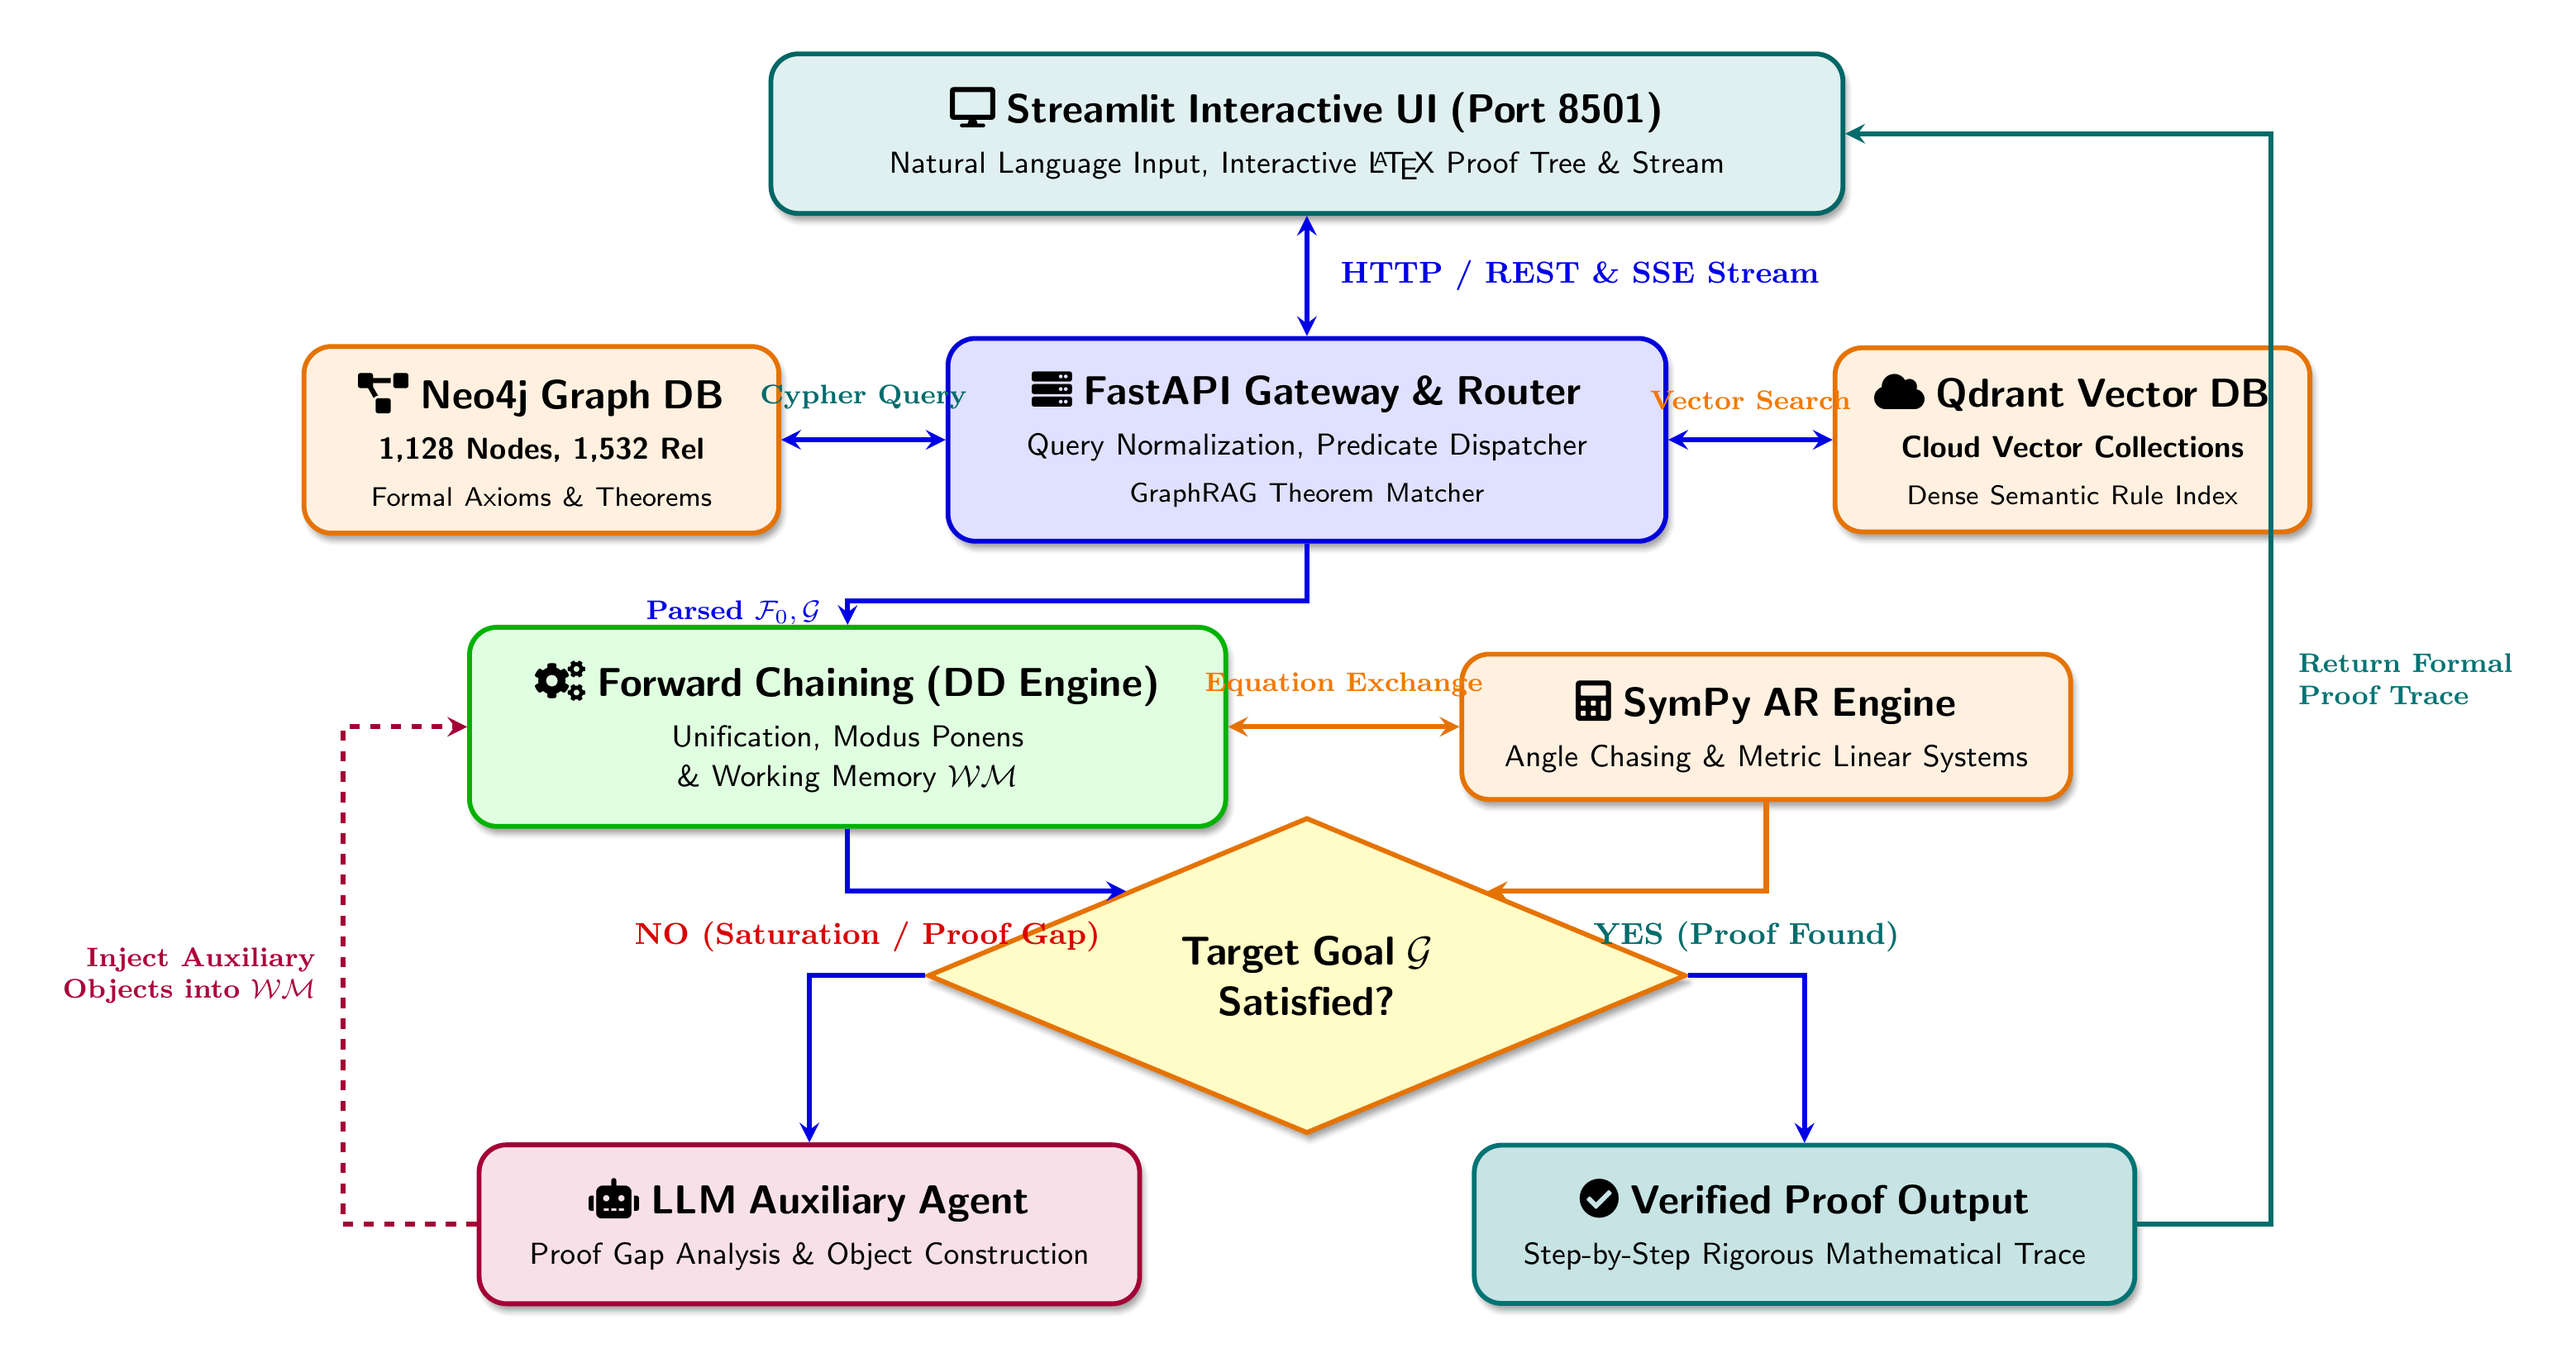
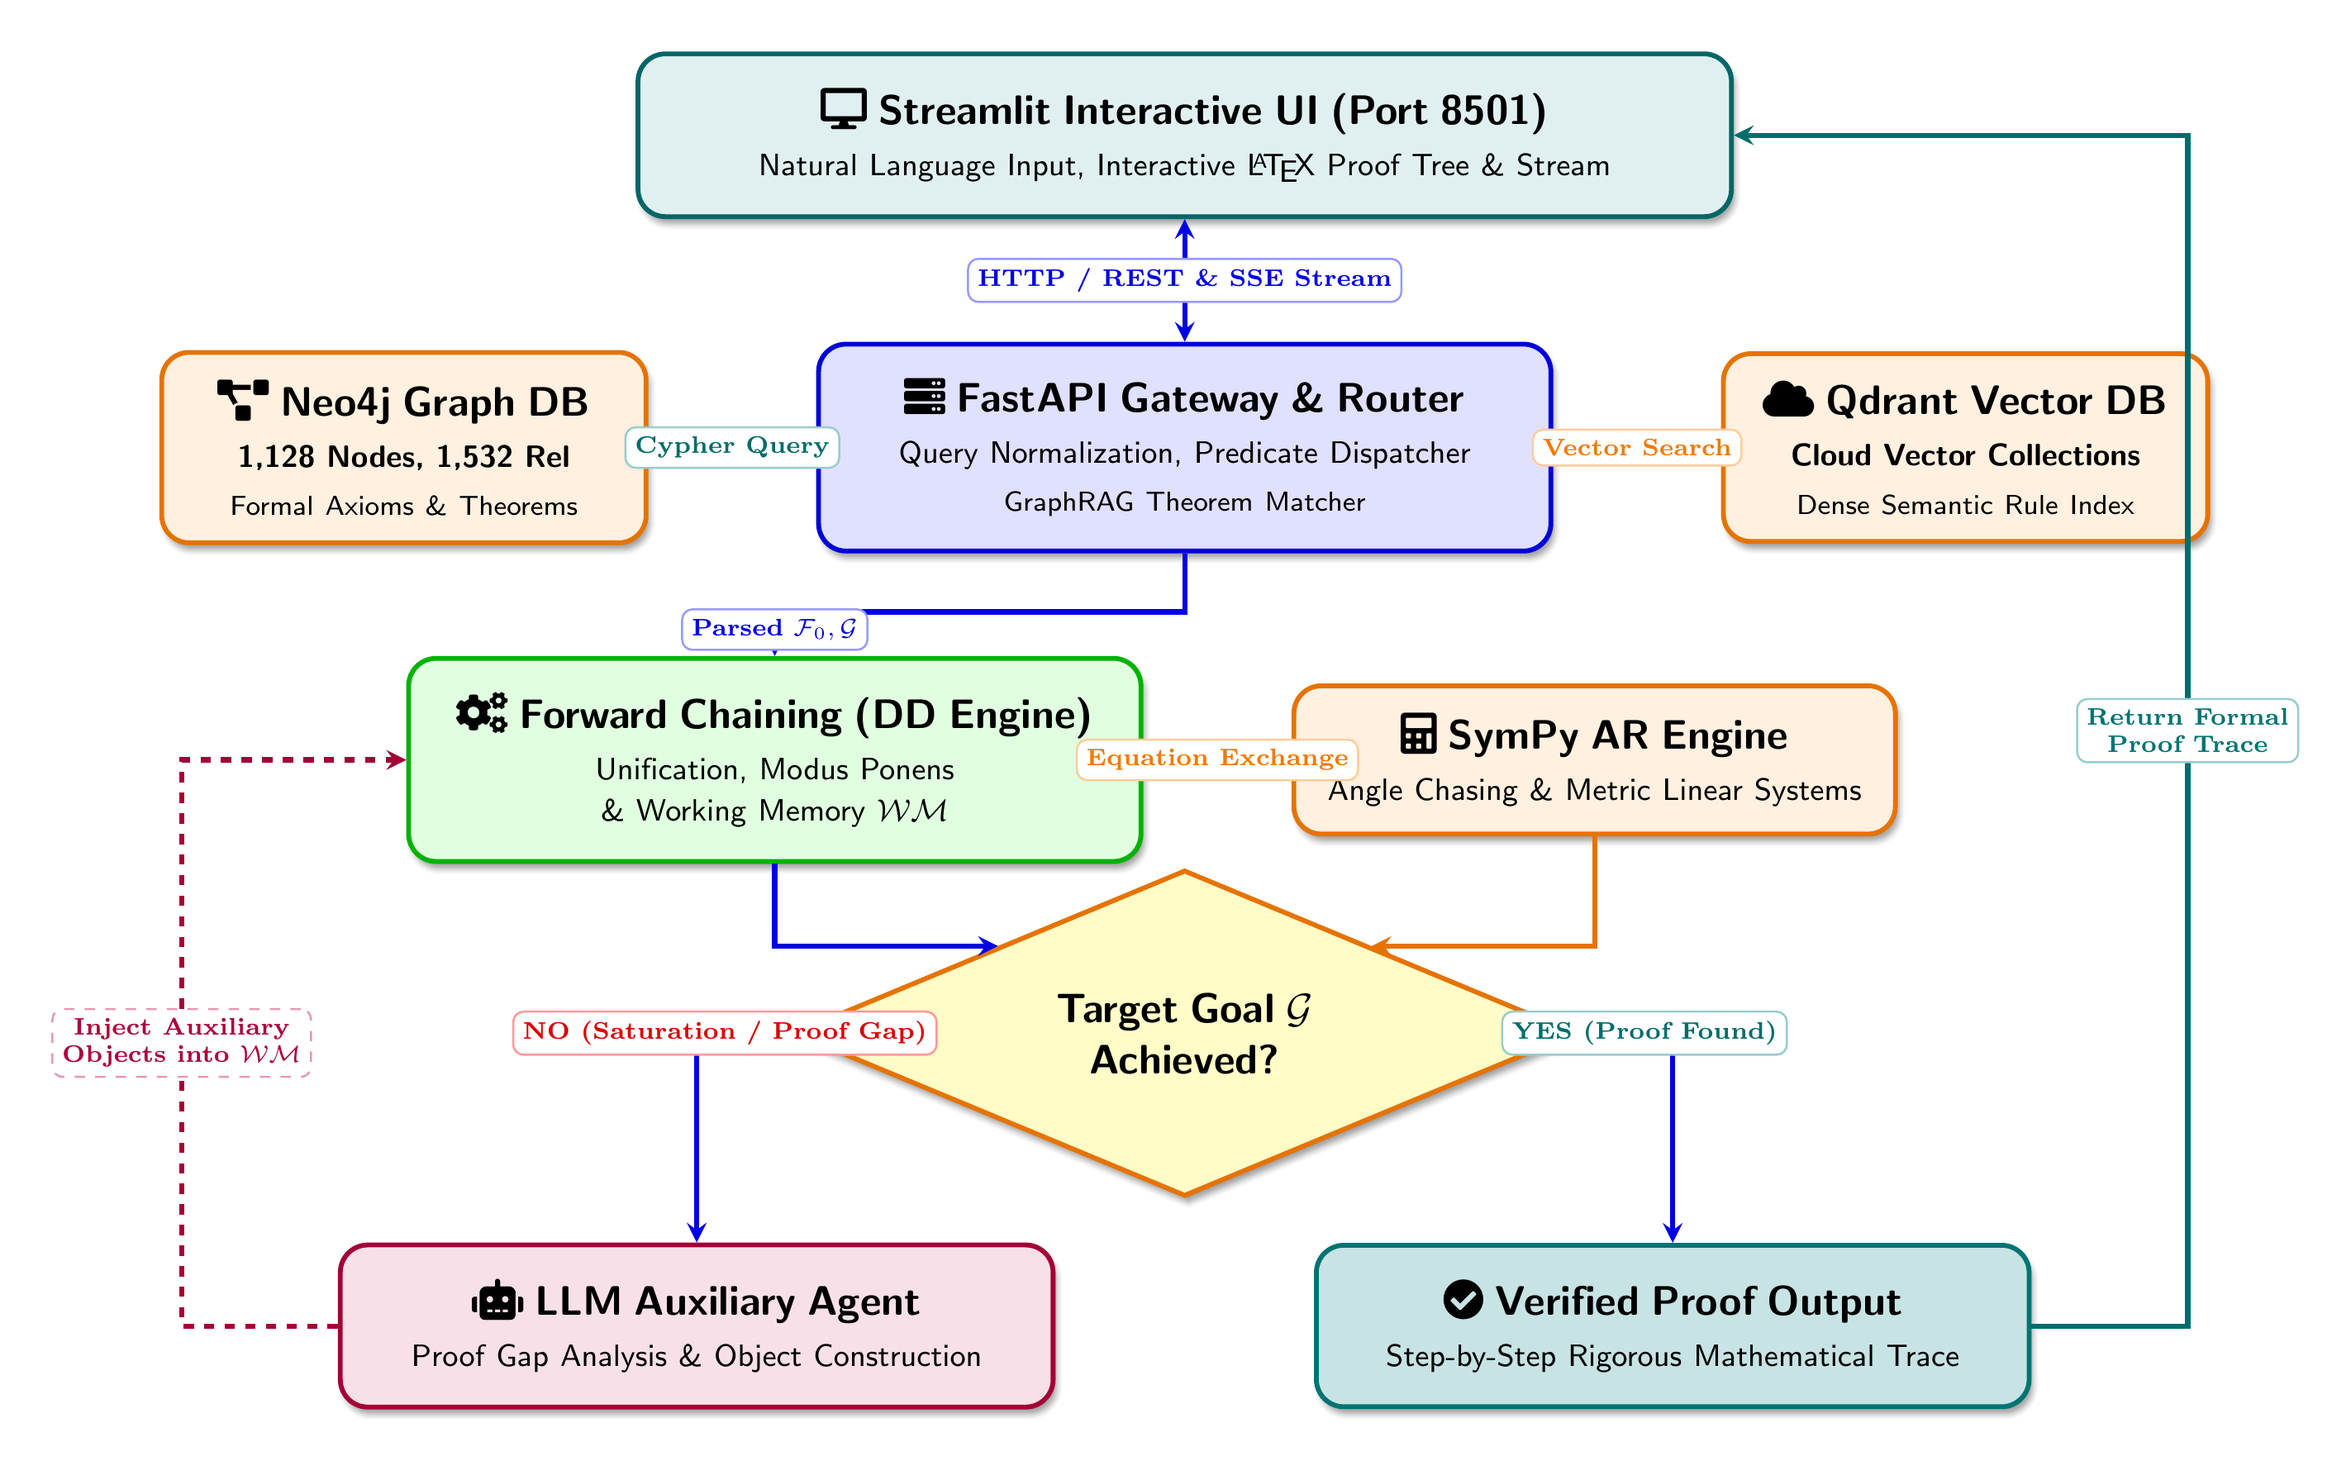
fix(diagram): eliminate all label collisions and bad hyphenations in system architecture diagram

diff --git a/latex_report/standalone_system_architecture.tex b/latex_report/standalone_system_architecture.tex
@@ -1,4 +1,4 @@
-\documentclass[border=15pt,varwidth=32cm]{standalone}
+\documentclass[border=15pt,varwidth=34cm]{standalone}
 \usepackage[utf8]{inputenc}
 \usepackage[T5]{fontenc}
 \usepackage[vietnamese,english]{babel}
@@ -11,7 +11,7 @@
 \shorthandoff{"}
 
 \begin{tikzpicture}[
-    scale=0.98,
+    scale=1.0,
     transform shape,
     font=\sffamily,
     ui_box/.style={
@@ -42,6 +42,9 @@
         rectangle, rounded corners=8pt, draw=teal!90!black, fill=teal!22,
         line width=1.4pt, text centered, inner sep=10pt, blur shadow={shadow blur steps=4, shadow xshift=1pt, shadow yshift=-2pt, opacity=20}
     },
+    badge/.style={
+        fill=white, draw=gray!40, line width=0.6pt, rounded corners=3pt, inner sep=2.8pt, font=\scriptsize\bfseries
+    },
     arrow/.style={
         thick, ->, >=stealth, color=blue!90!black, line width=1.5pt
     },
@@ -51,75 +54,84 @@
 ]
 
     % ================= LEVEL 1: CLIENT / UI =================
-    \node [ui_box, text width=10.5cm] (ui) at (0, 6.2) {
+    \node [ui_box, text width=10.5cm] (ui) at (0, 6.6) {
         \textbf{\large \faDesktop\ Streamlit Interactive UI (Port 8501)}\\[3pt]
         {\small Natural Language Input, Interactive \LaTeX\ Proof Tree \& Stream}
     };
 
     % ================= LEVEL 2: API & KNOWLEDGE STORAGE =================
-    \node [db_box, text width=4.4cm] (neo4j) at (-8.0, 3.0) {
+    \node [db_box, text width=4.4cm] (neo4j) at (-8.0, 3.4) {
         \textbf{\large \faProjectDiagram\ Neo4j Graph DB}\\[3pt]
         {\small \textbf{1,128 Nodes, 1,532 Rel}}\\[2pt]
         {\footnotesize Formal Axioms \& Theorems}
     };
 
-    \node [api_box, text width=6.8cm] (gateway) at (0, 3.0) {
+    \node [api_box, text width=6.8cm] (gateway) at (0, 3.4) {
         \textbf{\large \faServer\ FastAPI Gateway \& Router}\\[3pt]
         {\small Query Normalization, Predicate Dispatcher}\\[2pt]
         {\footnotesize GraphRAG Theorem Matcher}
     };
 
-    \node [db_box, text width=4.4cm] (qdrant) at (8.0, 3.0) {
+    \node [db_box, text width=4.4cm] (qdrant) at (8.0, 3.4) {
         \textbf{\large \faCloud\ Qdrant Vector DB}\\[3pt]
         {\small \textbf{Cloud Vector Collections}}\\[2pt]
         {\footnotesize Dense Semantic Rule Index}
     };
 
     % ================= LEVEL 3: REASONING ENGINES =================
-    \node [process_box, text width=7.2cm] (dd) at (-4.8, 0.0) {
+    \node [process_box, text width=6.8cm] (dd) at (-4.2, 0.2) {
         \textbf{\large \faCogs\ \mbox{Forward Chaining (DD Engine)}}\\[3pt]
         {\small Unification, Modus Ponens \& Working Memory $\mathcal{WM}$}
     };
 
-    \node [db_box, text width=5.8cm] (ar) at (4.8, 0.0) {
+    \node [db_box, text width=5.6cm] (ar) at (4.2, 0.2) {
         \textbf{\large \faCalculator\ SymPy AR Engine}\\[3pt]
         {\small Angle Chasing \& Metric Linear Systems}
     };
 
     % ================= LEVEL 4: DECISION POINT =================
-    \node [decision_box, text width=4.5cm] (check) at (0, -2.6) {
-        \textbf{\large Target Goal $\mathcal{G}$}\\[3pt]\textbf{\large Satisfied?}
+    \node [decision_box, text width=4.6cm] (check) at (0, -2.6) {
+        \textbf{\large Target Goal $\mathcal{G}$}\\[3pt]\textbf{\large Achieved?}
     };
 
     % ================= LEVEL 5: OUTCOMES =================
-    \node [agent_box, text width=6.2cm] (aux) at (-5.2, -5.2) {
+    \node [agent_box, text width=6.6cm] (aux) at (-5.0, -5.6) {
         \textbf{\large \faRobot\ LLM Auxiliary Agent}\\[3pt]
         {\small Proof Gap Analysis \& Object Construction}
     };
 
-    \node [success_box, text width=6.2cm] (success) at (5.2, -5.2) {
+    \node [success_box, text width=6.6cm] (success) at (5.0, -5.6) {
         \textbf{\large \faCheckCircle\ Verified Proof Output}\\[3pt]
-        {\small Step-by-Step Rigorous Mathematical Trace}
+        {\small \mbox{Step-by-Step Rigorous Mathematical Trace}}
     };
 
-    % ================= CONNECTING ARROWS =================
-    \draw [biarrow] (ui.south) -- node[right=6pt, font=\bfseries\small, text=blue!90!black] {HTTP / REST \& SSE Stream} (gateway.north);
+    % ================= CONNECTING ARROWS WITH BADGES =================
+    % 1. UI <-> Gateway
+    \draw [biarrow] (ui.south) -- node[midway, badge, text=blue!90!black, draw=blue!40] {HTTP / REST \& SSE Stream} (gateway.north);
     
-    \draw [biarrow] (gateway.west) -- node[above=5pt, font=\bfseries\footnotesize, text=teal!85!black] {Cypher Query} (neo4j.east);
-    \draw [biarrow] (gateway.east) -- node[above=5pt, font=\bfseries\footnotesize, text=orange!95!black] {Vector Search} (qdrant.west);
+    % 2. Gateway <-> Neo4j & Qdrant
+    \draw [biarrow] (gateway.west) -- node[midway, badge, text=teal!85!black, draw=teal!40] {Cypher Query} (neo4j.east);
+    \draw [biarrow] (gateway.east) -- node[midway, badge, text=orange!95!black, draw=orange!40] {Vector Search} (qdrant.west);
 
-    \draw [arrow] (gateway.south) -- ++(0, -0.6) -| node[near end, left=4pt, font=\bfseries\footnotesize, text=blue!90!black] {Parsed $\mathcal{F}_0, \mathcal{G}$} (dd.north);
-    \draw [biarrow, color=orange!90!black] (dd.east) -- node[above=5pt, font=\bfseries\footnotesize, text=orange!95!black] {Equation Exchange} (ar.west);
+    % 3. Gateway -> DD Engine
+    \draw [arrow] (gateway.south) -- ++(0, -0.6) -| node[pos=0.7, badge, text=blue!90!black, draw=blue!40] {Parsed $\mathcal{F}_0, \mathcal{G}$} (dd.north);
     
+    % 4. DD Engine <-> SymPy AR
+    \draw [biarrow, color=orange!90!black] (dd.east) -- node[midway, badge, text=orange!95!black, draw=orange!40] {Equation Exchange} (ar.west);
+    
+    % 5. Engines -> Decision Diamond
     \draw [arrow] (dd.south) |- (check.155);
     \draw [arrow, color=orange!90!black] (ar.south) |- (check.25);
 
-    \draw [arrow] (check.west) -| node[near start, above=3pt, font=\bfseries\small, text=red!85!black] {NO (Saturation / Proof Gap)} (aux.north);
-    \draw [arrow] (check.east) -| node[near start, above=3pt, font=\bfseries\small, text=teal!85!black] {YES (Proof Found)} (success.north);
+    % 6. Decision Diamond -> Outcomes (NO from West, YES from East)
+    \draw [arrow] (check.west) -| node[pos=0.35, badge, text=red!85!black, draw=red!40] {NO (Saturation / Proof Gap)} (aux.north);
+    \draw [arrow] (check.east) -| node[pos=0.35, badge, text=teal!85!black, draw=teal!40] {YES (Proof Found)} (success.north);
 
-    \draw [arrow, dashed, color=purple!85!black] (aux.west) -- ++(-1.4, 0) |- node[near start, left=4pt, font=\bfseries\footnotesize, text=purple!90!black, align=right] {Inject Auxiliary\\Objects into $\mathcal{WM}$} (dd.west);
+    % 7. Feedback Loop: Auxiliary -> DD Engine
+    \draw [arrow, dashed, color=purple!85!black] (aux.west) -- ++(-1.6, 0) |- node[pos=0.25, badge, text=purple!90!black, draw=purple!40, align=center] {Inject Auxiliary\\Objects into $\mathcal{WM}$} (dd.west);
 
-    \draw [arrow, color=teal!85!black] (success.east) -- ++(1.4, 0) |- node[near start, right=4pt, font=\bfseries\footnotesize, text=teal!90!black, align=left] {Return Formal\\Proof Trace} (ui.east);
+    % 8. Output Loop: Success -> UI
+    \draw [arrow, color=teal!85!black] (success.east) -- ++(1.6, 0) |- node[pos=0.25, badge, text=teal!90!black, draw=teal!40, align=center] {Return Formal\\Proof Trace} (ui.east);
 
 \end{tikzpicture}
 
